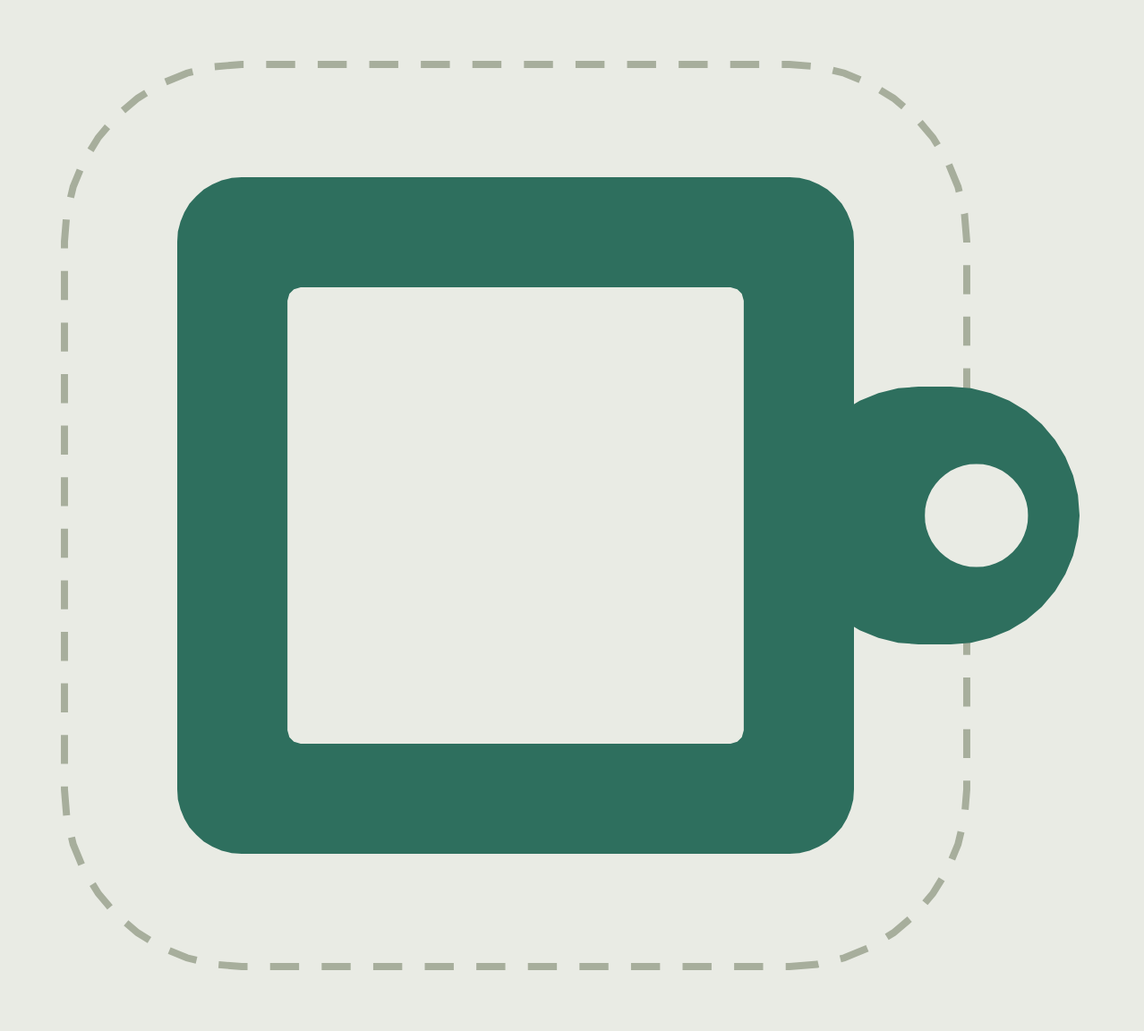
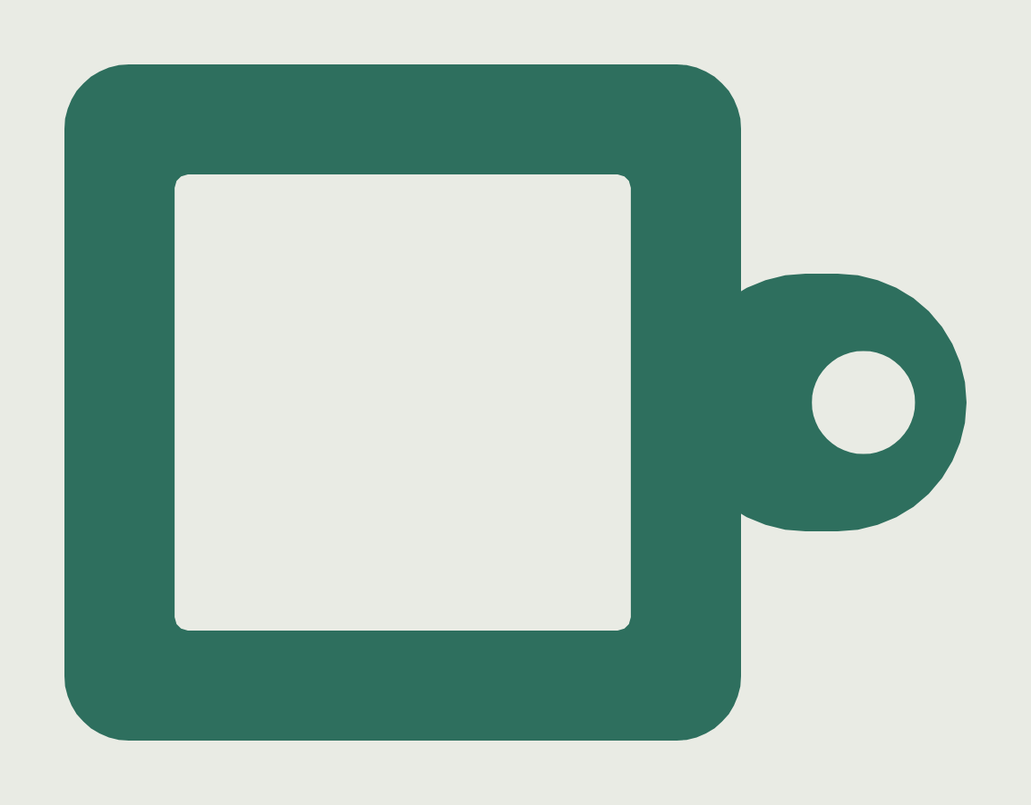
Close the back of the switch holder, and lose the flared foot
Printed, the holder came out hollow on both faces: the clip well ran to H + 0.3, so
it cut clean through and the base was a tube with the switch's pins on show from
behind and catching on everything in a pocket.  The mesh was never wrong — a real
boolean of the exported parts comes back watertight, one body, genus 2 exactly as
designed — the design was just missing a floor.

So the well now stops at plateT + wellH and a floor closes it.  wellH drops 9.0 ->
7.5 so the part gets no taller (10.2 mm vs 10.5), and the switch still has 1.0 mm of
clearance between its pin tips and the floor.  An overhang audit of the boolean
result finds 268 mm² of horizontal down-face at the floor and nothing at any other
angle: the floor is the only unsupported surface in the part, one bridge anchored on
all four walls.  By that layer the cavity is sealed, so support in there could never
come out — the panel says so twice.

floor = 0 restores the open frame, which is still right for a bench tester you want
to poke wires into.  Since a sealed box has no way to release the switch again,
floorHole cuts an optional 5-6 mm channel to drive it out with a rod; off by default
because it puts the pins back within reach.

The flared foot is gone too (footGrow 7 -> 0).  It was there for steadiness and it
made a keyring fob look like a doorstop; it was never a printing requirement, since a
vertical wall is exactly as self-supporting as one leaning outward.  The test that
[…]

diff --git a/docs/index.html b/docs/index.html
@@ -317,8 +317,11 @@ table.spec td.n{text-align:right;white-space:nowrap}
         <div class="row"><label for="hCut">Lỗ vuông</label><input id="hCut" type="number" step="0.05" value="14.15"><span class="u">mm</span></div>
         <div class="row"><label for="hPlateT">Dày tấm</label><input id="hPlateT" type="number" step="0.05" value="1.5"><span class="u">mm</span></div>
         <div class="row"><label for="hWell">Hốc dưới tấm</label><input id="hWell" type="number" step="0.1" value="16.4"><span class="u">mm</span></div>
-        <div class="row"><label for="hWellH">Sâu hốc</label><input id="hWellH" type="number" step="0.5" value="9"><span class="u">mm</span></div>
+        <div class="row"><label for="hWellH">Sâu hốc</label><input id="hWellH" type="number" step="0.5" value="7.5"><span class="u">mm</span></div>
+        <div class="row"><label for="hFloor">Dày đáy</label><input id="hFloor" type="number" step="0.2" value="1.2"><span class="u">mm</span></div>
+        <div class="row"><label for="hFloorHole">Lỗ đẩy ⌀</label><input id="hFloorHole" type="number" step="0.5" value="0"><span class="u">mm</span></div>
         <div class="row"><label for="hBodyW">Bề đế</label><input id="hBodyW" type="number" step="0.5" value="21"><span class="u">mm</span></div>
+        <div class="row"><label for="hFootGrow">Bè chân đế</label><input id="hFootGrow" type="number" step="0.5" value="0"><span class="u">mm</span></div>
         <label class="check"><input id="hLoop" type="checkbox" checked> Có tai móc khoá</label>
         <div class="row"><label for="hLoopHole">Lỗ móc ⌀</label><input id="hLoopHole" type="number" step="0.1" value="3.2"><span class="u">mm</span></div>
         <div class="row"><label for="hLoopOut">Tai nhô ra</label><input id="hLoopOut" type="number" step="0.5" value="7"><span class="u">mm</span></div>
@@ -328,8 +331,14 @@ table.spec td.n{text-align:right;white-space:nowrap}
         <ul class="msgs" id="hMsgs" style="margin-top:9px"></ul>
         <button class="btn ghost" id="dlholder" type="button">Tải đế giữ switch .3mf</button>
         <p class="note">Lỗ để <b>14.15</b> chứ không phải 14.00: lỗ in FDM luôn co lại, đúng 14.00 là switch không vào.
-          In một màu, <b>không support</b> — đế đã dựng úp mặt lỗ xuống bàn nên không có chỗ nào cần đỡ.
           In xong lật ngược lại, mặt tấm ở trên, ấn switch xuống tới khi nghe tách.</p>
+        <p class="note"><b>Đừng bật support.</b> Đế dựng úp mặt lỗ xuống bàn nên cả part chỉ có
+          <b>một chỗ</b> cần bắc cầu: lớp đáy phủ qua hốc, gối lên cả bốn thành nên slicer bắc cầu được,
+          không cần đỡ. Mà hốc lúc đó đã kín — support chui vào là không lấy ra được nữa.
+          Lớp đáy hơi xấu ở mặt trong hốc là bình thường, không ai thấy.</p>
+        <p class="note"><b>Dày đáy = 0</b> thì mặt sau hở, nhìn thấy chân switch — chỉ nên dùng khi làm
+          đế thử trên bàn và cần chọc dây vào chân. Đáy kín thì khó lấy switch ra; muốn lấy được thì
+          đặt <b>lỗ đẩy</b> khoảng 5–6 mm để thông một cây que vào đẩy switch ra.</p>
       </fieldset>
     </div>
 
@@ -1528,12 +1537,17 @@ function exportCalibration3mf(o = {}, plate = 256) {
 // of a plate-mount switch add roughly 3 mm more.  Everything below the plate
 // therefore needs to be empty.
 //
-// Printing decides the shape.  Modelled plate-down, the cutout lands in the
-// first layer, the clearance well opens towards the nozzle, and the outer wall
-// leans *outward* as it rises — which is the self-supporting direction — so the
-// finished part has a wide, stable foot with no overhang anywhere and no
-// support to dig out of the well.  Turn it over after printing and the plate is
-// on top where the switch goes in.
+// Printing decides the orientation.  Modelled plate-down, the cutout lands in
+// the first layer, the clip well opens towards the nozzle, and the walls are
+// vertical — so nothing overhangs and there is no support to dig out of the
+// well.  Turn it over after printing and the plate is on top where the switch
+// goes in.
+//
+// The far end of the well is closed by a floor, which the slicer prints as one
+// bridge across the cavity.  Leaving it open — as the first version did — makes
+// the base a tube: the switch and its pins show through both faces, and on a
+// keyring the pins catch on everything.  The floor costs one bridged layer and
+// no support; support inside a sealed cavity is unremovable, so don't enable it.
 // ---------------------------------------------------------------------------
 
 
@@ -1553,9 +1567,21 @@ const HOLDER_DEFAULTS = {
   cut: 14.15,
   plateT: 1.5,
   well: 16.4,          // clearance under the plate — the clips spring outward
-  wellH: 9.0,          // deep enough for housing + pins with room to spare
+  wellH: 7.5,          // deep enough for housing + pins with a little room
+  // The back has to be closed.  Left open, the well cuts clean through and the
+  // base is a tube: you see the switch and its pins from both faces, the pins
+  // catch on things in a pocket, and it reads as unfinished.  0 = open frame,
+  // which is still the right thing for a bench tester you want to poke wires into.
+  floor: 1.2,
+  // Optional hole through that floor.  A sealed box has no way to get the switch
+  // out again — the clips are unreachable — so this leaves a way to push it out
+  // with a rod.  Off by default: it puts the pins back within reach.
+  floorHole: 0,
   bodyW: 21.0,         // plate footprint per cell
-  footGrow: 7.0,       // how much wider the foot is than the plate, total
+  // Straight sides by default.  A flared foot is steadier on a bench and looks
+  // like a doorstop on a keyring; either way it is not a printing requirement —
+  // a vertical wall is just as self-supporting as one leaning outward.
+  footGrow: 0,         // how much wider the foot is than the plate, total
   cornerR: 2.0,
   // Keyring lug.  It has to be a tab sticking out, not a hole through the plate:
   // between the switch cutout and the rim there are only (bodyW - cut)/2 ≈ 3.4 mm
@@ -1583,20 +1609,22 @@ function holderSize(p = {}) {
   const o = { ...HOLDER_DEFAULTS, ...p };
   const c = cellCentres(o);
   const span = c.length > 1 ? c[c.length - 1] - c[0] : 0;
-  return { W: span + o.bodyW, D: o.bodyW, H: o.plateT + o.wellH, cells: c };
+  return { W: span + o.bodyW, D: o.bodyW,
+           H: o.plateT + o.wellH + Math.max(0, o.floor), cells: c };
 }
 
 /**
- * The solid body: plate footprint at z=0 growing to the foot at the top of the
- * print.  Leaning outward at ~25° from vertical, so every layer is supported by
- * the one below it.
+ * The solid body: plate footprint at z=0, optionally widening towards the foot at
+ * the top of the print.  It must never get *narrower* as z rises — that is the
+ * direction that needs support — so footGrow is clamped at 0.
  */
 function buildBody(p) {
   const o = { ...HOLDER_DEFAULTS, ...p };
   const { W, D, H } = holderSize(o);
+  const grow = Math.max(0, o.footGrow);
   const m = new Mesh();
   const lo = roundedRect(W, D, o.cornerR, 8);
-  const hi = roundedRect(W + o.footGrow, D + o.footGrow, o.cornerR + o.footGrow / 2, 8);
+  const hi = roundedRect(W + grow, D + grow, o.cornerR + grow / 2, 8);
   const rLo = m.ring(lo, 0), rHi = m.ring(hi, H);
   m.loft(rLo, rHi, true);
   m.face(lo, [], 0, false);
@@ -1631,14 +1659,24 @@ function buildHolder(p = {}) {
   const o = { ...HOLDER_DEFAULTS, ...p };
   const { H, cells } = holderSize(o);
 
+  const floor = Math.max(0, o.floor);
   const cuts = buildPrism(cells.map((cx) => cell(o.cut, cx)), -0.3, o.plateT).weld();
-  const wells = buildPrism(cells.map((cx) => cell(o.well, cx, 0.8)), o.plateT, H + 0.3).weld();
+  // With a floor the well stops short of the top face; without one it runs past it
+  // so the back stays open.
+  const wells = buildPrism(cells.map((cx) => cell(o.well, cx, 0.8)),
+    o.plateT, floor > 0 ? o.plateT + o.wellH : H + 0.3).weld();
 
   const parts = [
     { name: `Holder ${cells.length}x`, mesh: buildBody(o).weld(), extruder: 1, subtype: 'normal_part' },
     { name: 'Switch cutouts', mesh: cuts, subtype: 'negative_part' },
     { name: 'Clip clearance', mesh: wells, subtype: 'negative_part' },
   ];
+
+  if (floor > 0 && o.floorHole > 0) {
+    const holes = buildPrism(cells.map((cx) => circle(o.floorHole, cx, 40)),
+      o.plateT + o.wellH - 0.3, H + 0.3).weld();
+    parts.push({ name: 'Push-out holes', mesh: holes, subtype: 'negative_part' });
+  }
 
   if (o.loop) {
     const g = loopGeom(o);
@@ -1680,16 +1718,22 @@ function holderInfo(p = {}) {
   if (seat < 1.2) warn.push(`gờ đỡ vỏ switch còn ${seat.toFixed(2)} mm — vỏ trên 15.6 mm gần như không có chỗ tựa`);
   if (gap < 1.0) warn.push(`hai hốc kề nhau chỉ cách ${gap.toFixed(2)} mm — giảm "hốc dưới tấm" hoặc tăng pitch`);
 
+  const floor = Math.max(0, o.floor);
+  if (floor > 0 && floor < 0.8)
+    warn.push(`đáy dày ${floor.toFixed(2)} mm — dưới 0.8 mm thì lớp bắc cầu qua hốc không kín, đáy sẽ rỗ`);
+  if (floor > 0 && o.floorHole > 0 && o.floorHole > o.well - 3)
+    warn.push(`lỗ đẩy ⌀${o.floorHole.toFixed(1)} mm gần bằng cả hốc — đáy gần như không còn gì`);
+
   let loop = null;
   if (o.loop) {
     const g = loopGeom(o);
     const side = (o.loopW - o.loopHole) / 2;     // material each side of the hole
     // The body flares as it rises, so the wall is closest to the hole at the top
     // of the tab, not at the plate — measure it there.
-    const wallAt = (W + o.footGrow * (o.loopT / H)) / 2;
+    const wallAt = (W + Math.max(0, o.footGrow) * (o.loopT / H)) / 2;
     const clear = g.hole - o.loopHole / 2 - wallAt;
     loop = { out: o.loopOut, w: o.loopW, t: o.loopT, hole: o.loopHole,
-             side, edge: o.loopEdge, reach: g.x1 - W / 2 };
+             side, edge: o.loopEdge, reach: g.x1 - W / 2, clear };
     if (side < 1.6) warn.push(`hai bên lỗ móc chỉ còn ${side.toFixed(2)} mm — nới "bề tai" hoặc giảm đường kính lỗ`);
     if (o.loopEdge < 1.2) warn.push(`đầu tai sau lỗ chỉ còn ${o.loopEdge.toFixed(2)} mm — tai sẽ đứt ở đó`);
     if (o.loopT < 2.0) warn.push(`tai dày ${o.loopT.toFixed(1)} mm — dưới 2 mm là bẻ mấy lần sẽ gãy`);
@@ -1697,7 +1741,8 @@ function holderInfo(p = {}) {
     if (clear < 0.8) warn.push(`lỗ móc nằm sát thành đế (${clear.toFixed(2)} mm) — tăng "tai nhô ra"`);
   }
 
-  return { W, D, H, n: cells.length, clr, ledge, wall, under, need, seat, gap, loop, warn };
+  return { W, D, H, n: cells.length, clr, ledge, wall, under, need, seat, gap,
+           floor, floorHole: floor > 0 ? o.floorHole : 0, loop, warn };
 }
 
 function exportHolder3mf(p = {}, plate = 256) {
@@ -2461,6 +2506,7 @@ const DEFAULT_LOGO=[{"outer":[[5.8,-10],[6.27,-9.974],[6.735,-9.895],[7.187,-9.7
   // ---------------------------------------------------- switch holder base
   const H_KEYS = { hCount: 'count', hPitch: 'pitch', hCut: 'cut', hPlateT: 'plateT',
                    hWell: 'well', hWellH: 'wellH', hBodyW: 'bodyW',
+                   hFloor: 'floor', hFloorHole: 'floorHole', hFootGrow: 'footGrow',
                    hLoopHole: 'loopHole', hLoopOut: 'loopOut', hLoopW: 'loopW', hLoopT: 'loopT' };
   const holderOpts = () => {
     const o = { loop: $('hLoop').checked };
@@ -2475,10 +2521,13 @@ const DEFAULT_LOGO=[{"outer":[[5.8,-10],[6.27,-9.974],[6.735,-9.895],[7.187,-9.7
     $('hInfo').textContent =
       `${i.n} switch · đế ${i.W.toFixed(1)} × ${i.D.toFixed(1)} × ${i.H.toFixed(1)} mm · ` +
       `dư so với lỗ chuẩn +${i.clr.toFixed(2)} mm · gờ cho ngàm ${i.ledge.toFixed(2)} mm · ` +
-      `trống dưới tấm ${i.under.toFixed(1)}/${i.need.toFixed(1)} mm` +
+      `hốc sâu ${i.under.toFixed(1)}/${i.need.toFixed(1)} mm · ` +
+      (i.floor > 0 ? `đáy kín ${i.floor.toFixed(1)} mm` : 'mặt sau HỞ') +
+      (i.floorHole > 0 ? ` (lỗ đẩy ⌀${i.floorHole.toFixed(1)})` : '') +
       (i.loop ? ` · tai ⌀${i.loop.hole.toFixed(1)} mm, hai bên còn ${i.loop.side.toFixed(1)} mm` : '');
     for (const id of ['hLoopHole', 'hLoopOut', 'hLoopW', 'hLoopT'])
       $(id).disabled = !$('hLoop').checked;
+    $('hFloorHole').disabled = !(i.floor > 0);
     $('hMsgs').innerHTML = i.warn.length
       ? i.warn.map((s) => `<li>${s}</li>`).join('')
       : '<li class="good">Đúng chuẩn MX plate-mount — switch sẽ ấn vào và kẹp được.</li>';

diff --git a/index.html b/index.html
@@ -316,8 +316,11 @@ table.spec td.n{text-align:right;white-space:nowrap}
         <div class="row"><label for="hCut">Lỗ vuông</label><input id="hCut" type="number" step="0.05" value="14.15"><span class="u">mm</span></div>
         <div class="row"><label for="hPlateT">Dày tấm</label><input id="hPlateT" type="number" step="0.05" value="1.5"><span class="u">mm</span></div>
         <div class="row"><label for="hWell">Hốc dưới tấm</label><input id="hWell" type="number" step="0.1" value="16.4"><span class="u">mm</span></div>
-        <div class="row"><label for="hWellH">Sâu hốc</label><input id="hWellH" type="number" step="0.5" value="9"><span class="u">mm</span></div>
+        <div class="row"><label for="hWellH">Sâu hốc</label><input id="hWellH" type="number" step="0.5" value="7.5"><span class="u">mm</span></div>
+        <div class="row"><label for="hFloor">Dày đáy</label><input id="hFloor" type="number" step="0.2" value="1.2"><span class="u">mm</span></div>
+        <div class="row"><label for="hFloorHole">Lỗ đẩy ⌀</label><input id="hFloorHole" type="number" step="0.5" value="0"><span class="u">mm</span></div>
         <div class="row"><label for="hBodyW">Bề đế</label><input id="hBodyW" type="number" step="0.5" value="21"><span class="u">mm</span></div>
+        <div class="row"><label for="hFootGrow">Bè chân đế</label><input id="hFootGrow" type="number" step="0.5" value="0"><span class="u">mm</span></div>
         <label class="check"><input id="hLoop" type="checkbox" checked> Có tai móc khoá</label>
         <div class="row"><label for="hLoopHole">Lỗ móc ⌀</label><input id="hLoopHole" type="number" step="0.1" value="3.2"><span class="u">mm</span></div>
         <div class="row"><label for="hLoopOut">Tai nhô ra</label><input id="hLoopOut" type="number" step="0.5" value="7"><span class="u">mm</span></div>
@@ -327,8 +330,14 @@ table.spec td.n{text-align:right;white-space:nowrap}
         <ul class="msgs" id="hMsgs" style="margin-top:9px"></ul>
         <button class="btn ghost" id="dlholder" type="button">Tải đế giữ switch .3mf</button>
         <p class="note">Lỗ để <b>14.15</b> chứ không phải 14.00: lỗ in FDM luôn co lại, đúng 14.00 là switch không vào.
-          In một màu, <b>không support</b> — đế đã dựng úp mặt lỗ xuống bàn nên không có chỗ nào cần đỡ.
           In xong lật ngược lại, mặt tấm ở trên, ấn switch xuống tới khi nghe tách.</p>
+        <p class="note"><b>Đừng bật support.</b> Đế dựng úp mặt lỗ xuống bàn nên cả part chỉ có
+          <b>một chỗ</b> cần bắc cầu: lớp đáy phủ qua hốc, gối lên cả bốn thành nên slicer bắc cầu được,
+          không cần đỡ. Mà hốc lúc đó đã kín — support chui vào là không lấy ra được nữa.
+          Lớp đáy hơi xấu ở mặt trong hốc là bình thường, không ai thấy.</p>
+        <p class="note"><b>Dày đáy = 0</b> thì mặt sau hở, nhìn thấy chân switch — chỉ nên dùng khi làm
+          đế thử trên bàn và cần chọc dây vào chân. Đáy kín thì khó lấy switch ra; muốn lấy được thì
+          đặt <b>lỗ đẩy</b> khoảng 5–6 mm để thông một cây que vào đẩy switch ra.</p>
       </fieldset>
     </div>
 

diff --git a/src/shell.html b/src/shell.html
@@ -309,8 +309,11 @@ table.spec td.n{text-align:right;white-space:nowrap}
         <div class="row"><label for="hCut">Lỗ vuông</label><input id="hCut" type="number" step="0.05" value="14.15"><span class="u">mm</span></div>
         <div class="row"><label for="hPlateT">Dày tấm</label><input id="hPlateT" type="number" step="0.05" value="1.5"><span class="u">mm</span></div>
         <div class="row"><label for="hWell">Hốc dưới tấm</label><input id="hWell" type="number" step="0.1" value="16.4"><span class="u">mm</span></div>
-        <div class="row"><label for="hWellH">Sâu hốc</label><input id="hWellH" type="number" step="0.5" value="9"><span class="u">mm</span></div>
+        <div class="row"><label for="hWellH">Sâu hốc</label><input id="hWellH" type="number" step="0.5" value="7.5"><span class="u">mm</span></div>
+        <div class="row"><label for="hFloor">Dày đáy</label><input id="hFloor" type="number" step="0.2" value="1.2"><span class="u">mm</span></div>
+        <div class="row"><label for="hFloorHole">Lỗ đẩy ⌀</label><input id="hFloorHole" type="number" step="0.5" value="0"><span class="u">mm</span></div>
         <div class="row"><label for="hBodyW">Bề đế</label><input id="hBodyW" type="number" step="0.5" value="21"><span class="u">mm</span></div>
+        <div class="row"><label for="hFootGrow">Bè chân đế</label><input id="hFootGrow" type="number" step="0.5" value="0"><span class="u">mm</span></div>
         <label class="check"><input id="hLoop" type="checkbox" checked> Có tai móc khoá</label>
         <div class="row"><label for="hLoopHole">Lỗ móc ⌀</label><input id="hLoopHole" type="number" step="0.1" value="3.2"><span class="u">mm</span></div>
         <div class="row"><label for="hLoopOut">Tai nhô ra</label><input id="hLoopOut" type="number" step="0.5" value="7"><span class="u">mm</span></div>
@@ -320,8 +323,14 @@ table.spec td.n{text-align:right;white-space:nowrap}
         <ul class="msgs" id="hMsgs" style="margin-top:9px"></ul>
         <button class="btn ghost" id="dlholder" type="button">Tải đế giữ switch .3mf</button>
         <p class="note">Lỗ để <b>14.15</b> chứ không phải 14.00: lỗ in FDM luôn co lại, đúng 14.00 là switch không vào.
-          In một màu, <b>không support</b> — đế đã dựng úp mặt lỗ xuống bàn nên không có chỗ nào cần đỡ.
           In xong lật ngược lại, mặt tấm ở trên, ấn switch xuống tới khi nghe tách.</p>
+        <p class="note"><b>Đừng bật support.</b> Đế dựng úp mặt lỗ xuống bàn nên cả part chỉ có
+          <b>một chỗ</b> cần bắc cầu: lớp đáy phủ qua hốc, gối lên cả bốn thành nên slicer bắc cầu được,
+          không cần đỡ. Mà hốc lúc đó đã kín — support chui vào là không lấy ra được nữa.
+          Lớp đáy hơi xấu ở mặt trong hốc là bình thường, không ai thấy.</p>
+        <p class="note"><b>Dày đáy = 0</b> thì mặt sau hở, nhìn thấy chân switch — chỉ nên dùng khi làm
+          đế thử trên bàn và cần chọc dây vào chân. Đáy kín thì khó lấy switch ra; muốn lấy được thì
+          đặt <b>lỗ đẩy</b> khoảng 5–6 mm để thông một cây que vào đẩy switch ra.</p>
       </fieldset>
     </div>
 

diff --git a/src/app.js b/src/app.js
@@ -747,6 +747,7 @@
   // ---------------------------------------------------- switch holder base
   const H_KEYS = { hCount: 'count', hPitch: 'pitch', hCut: 'cut', hPlateT: 'plateT',
                    hWell: 'well', hWellH: 'wellH', hBodyW: 'bodyW',
+                   hFloor: 'floor', hFloorHole: 'floorHole', hFootGrow: 'footGrow',
                    hLoopHole: 'loopHole', hLoopOut: 'loopOut', hLoopW: 'loopW', hLoopT: 'loopT' };
   const holderOpts = () => {
     const o = { loop: $('hLoop').checked };
@@ -761,10 +762,13 @@
     $('hInfo').textContent =
       `${i.n} switch · đế ${i.W.toFixed(1)} × ${i.D.toFixed(1)} × ${i.H.toFixed(1)} mm · ` +
       `dư so với lỗ chuẩn +${i.clr.toFixed(2)} mm · gờ cho ngàm ${i.ledge.toFixed(2)} mm · ` +
-      `trống dưới tấm ${i.under.toFixed(1)}/${i.need.toFixed(1)} mm` +
+      `hốc sâu ${i.under.toFixed(1)}/${i.need.toFixed(1)} mm · ` +
+      (i.floor > 0 ? `đáy kín ${i.floor.toFixed(1)} mm` : 'mặt sau HỞ') +
+      (i.floorHole > 0 ? ` (lỗ đẩy ⌀${i.floorHole.toFixed(1)})` : '') +
       (i.loop ? ` · tai ⌀${i.loop.hole.toFixed(1)} mm, hai bên còn ${i.loop.side.toFixed(1)} mm` : '');
     for (const id of ['hLoopHole', 'hLoopOut', 'hLoopW', 'hLoopT'])
       $(id).disabled = !$('hLoop').checked;
+    $('hFloorHole').disabled = !(i.floor > 0);
     $('hMsgs').innerHTML = i.warn.length
       ? i.warn.map((s) => `<li>${s}</li>`).join('')
       : '<li class="good">Đúng chuẩn MX plate-mount — switch sẽ ấn vào và kẹp được.</li>';

diff --git a/README.vi.md b/README.vi.md
@@ -90,6 +90,20 @@ không có support nào phải móc ra khỏi hốc. In xong lật ngược lạ
 
 ![Đế nhìn từ mặt tấm: 21 mm vuông, lỗ 14.15 mm và tai móc khoá](docs/holder.png)
 
+Đầu kia của hốc được **đáy** bịt lại. Bản đầu tôi để hở — hốc khoét thông suốt — nên
+đế thành cái ống: nhìn mặt nào cũng thấy switch với mấy cái chân kim loại, mà đeo chìa
+khoá thì chân nó vướng vào đủ thứ. Đáy là chỗ **duy nhất** slicer phải bắc cầu, một
+nhịp phủ qua hốc gối lên cả bốn thành, và cũng là mặt duy nhất trong cả part không có
+gì đỡ (soi overhang trên kết quả boolean: 268 mm² mặt ngang hướng xuống ở chỗ đáy, còn
+lại không có gì ở bất kỳ góc nào). **Đừng bật support** — tới lớp đó hốc đã kín, support
+chui vào là không bao giờ lấy ra được. Đặt dày đáy = 0 thì quay lại kiểu hở, vẫn đúng
+cho đế thử trên bàn khi cần chọc dây vào chân switch; còn đáy kín thì không có cách lấy
+switch ra, nên muốn lấy được thì đặt **lỗ đẩy** 5–6 mm để thông que vào đẩy nó ra.
+
+Thành đế để thẳng. Bè chân ra thì đứng vững hơn trên bàn nhưng đeo chìa khoá trông như
+cái chặn cửa, mà nó chưa bao giờ là điều kiện để in được — thành thẳng đứng tự đỡ y như
+thành loe ra. Muốn bè lại thì có ô `Bè chân đế`.
+
 Tai móc khoá là một cái tai nhô ra ở mức mặt tấm, không phải lỗ khoan xuyên tấm:
 giữa lỗ switch và rìa đế chỉ còn 3.4 mm, mà 1.5 mm PLA có lỗ 3 mm ở giữa thì là cái
 bản lề chứ không phải tai. Nên tai dày 3 mm — gấp đôi tấm — ăn 2 mm vào thân đế, và
@@ -103,8 +117,9 @@ hoặc rộng quá không giữ được, khi tấm ra ngoài khoảng 1.2–1.8
 hốc dưới tấm cạn hơn phần vỏ dưới cộng chân, và — khi làm nhiều ô — khi hai hốc kề
 nhau sắp ăn thông vào nhau. Tai móc khoá có phần kiểm riêng: thiếu nhựa hai bên hoặc
 phía sau lỗ, tai mỏng dưới 2 mm, lỗ nhỏ quá không lồng khoen được, hoặc tai ngắn quá
-làm lỗ ăn vào thành đế (thành đế loe ra khi lên cao, nên nó đo ở đỉnh tai — chỗ sát
-nhất).
+làm lỗ ăn vào thành đế (khi bật bè chân thì thành loe ra theo độ cao, nên nó đo ở đỉnh
+tai — chỗ sát nhất). Đáy cũng có phần kiểm riêng: mỏng dưới 0.8 mm thì lớp bắc cầu
+không kín, mặt sau in ra rỗ.
 
 ## Ba chỗ dễ sai mà nó làm đúng
 
@@ -151,8 +166,9 @@ npm test      # không cần cài gì — core và test chỉ dùng builtin củ
 - **`test_holder.mjs`** — đế giữ switch. Đo lại lỗ, dày tấm và độ trống dưới tấm từ
   mesh rồi kiểm switch thật có nhét vô được không, xác nhận vỏ ngoài không bao giờ
   thu vào khi lên cao (loe sai chiều là phải support khắp), đo lỗ móc khoá từ mesh rồi kiểm nhựa
-  cả ba phía cùng khoảng cách tới hốc ngàm, và đẩy mười một cấu hình cố ý sai qua
-  phần kiểm tra để chắc mỗi lỗi đều bị bắt.
+  cả ba phía cùng khoảng cách tới hốc ngàm, xác nhận đáy thật sự bịt kín mặt
+  sau (và đặt về 0 thì thật sự hở lại), và đẩy mười ba cấu hình cố ý sai qua phần
+  kiểm tra để chắc mỗi lỗi đều bị bắt.
 - **`test_mesh.mjs`** — ghi từng part ra `out/*.stl` rồi in kích thước.
 
 ## Phát triển

diff --git a/README.md b/README.md
@@ -98,6 +98,22 @@ over after printing and the plate is on top where the switch goes in.
 
 ![The holder seen from the plate: 21 mm square with the 14.15 mm cutout and a keyring lug](docs/holder.png)
 
+The far end of the well is closed by a **floor**. The first version left it open —
+the well cut clean through — which made the base a tube: the switch and its pins
+showed through both faces, and on a keyring the pins catch on everything. The floor
+is the one feature the slicer has to bridge, a single span across the cavity anchored
+on all four walls, and it is the *only* unsupported surface in the whole part (a full
+overhang audit of the boolean result finds 268 mm² of horizontal down-face at the
+floor and nothing else at any angle). **Do not enable support** — by that layer the
+cavity is sealed, and support inside it can never come out. Set the floor to 0 to get
+the open frame back, which is still the right thing for a bench tester you want to
+poke wires into; a closed floor has no way to release the switch again, so set a
+*push-out hole* of 5–6 mm if you want to be able to drive it back out with a rod.
+
+The sides are straight. A flared foot is steadier on a bench and looks like a
+doorstop on a keyring, and it was never a printing requirement — a vertical wall is
+exactly as self-supporting as one leaning outward. `footGrow` brings it back.
+
 The keyring lug is a tab sticking out at plate level, not a hole through the plate:
 between the switch cutout and the rim there are only 3.4 mm of plate, and 1.5 mm of
 PLA with a 3 mm hole in it is a hinge, not a lug. So the tab is 3 mm thick — twice
